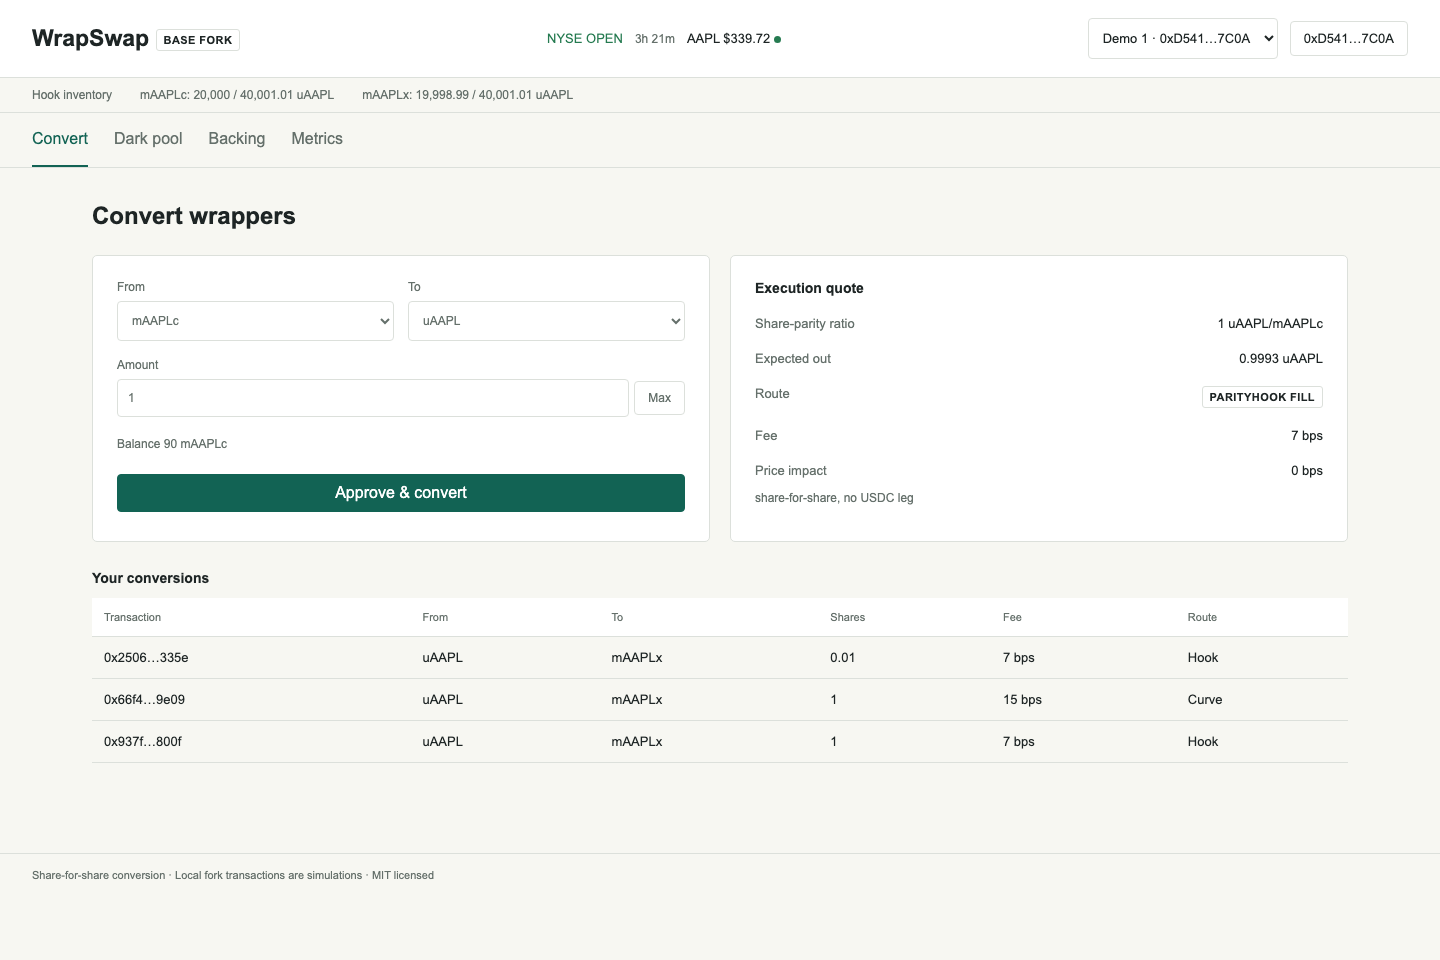
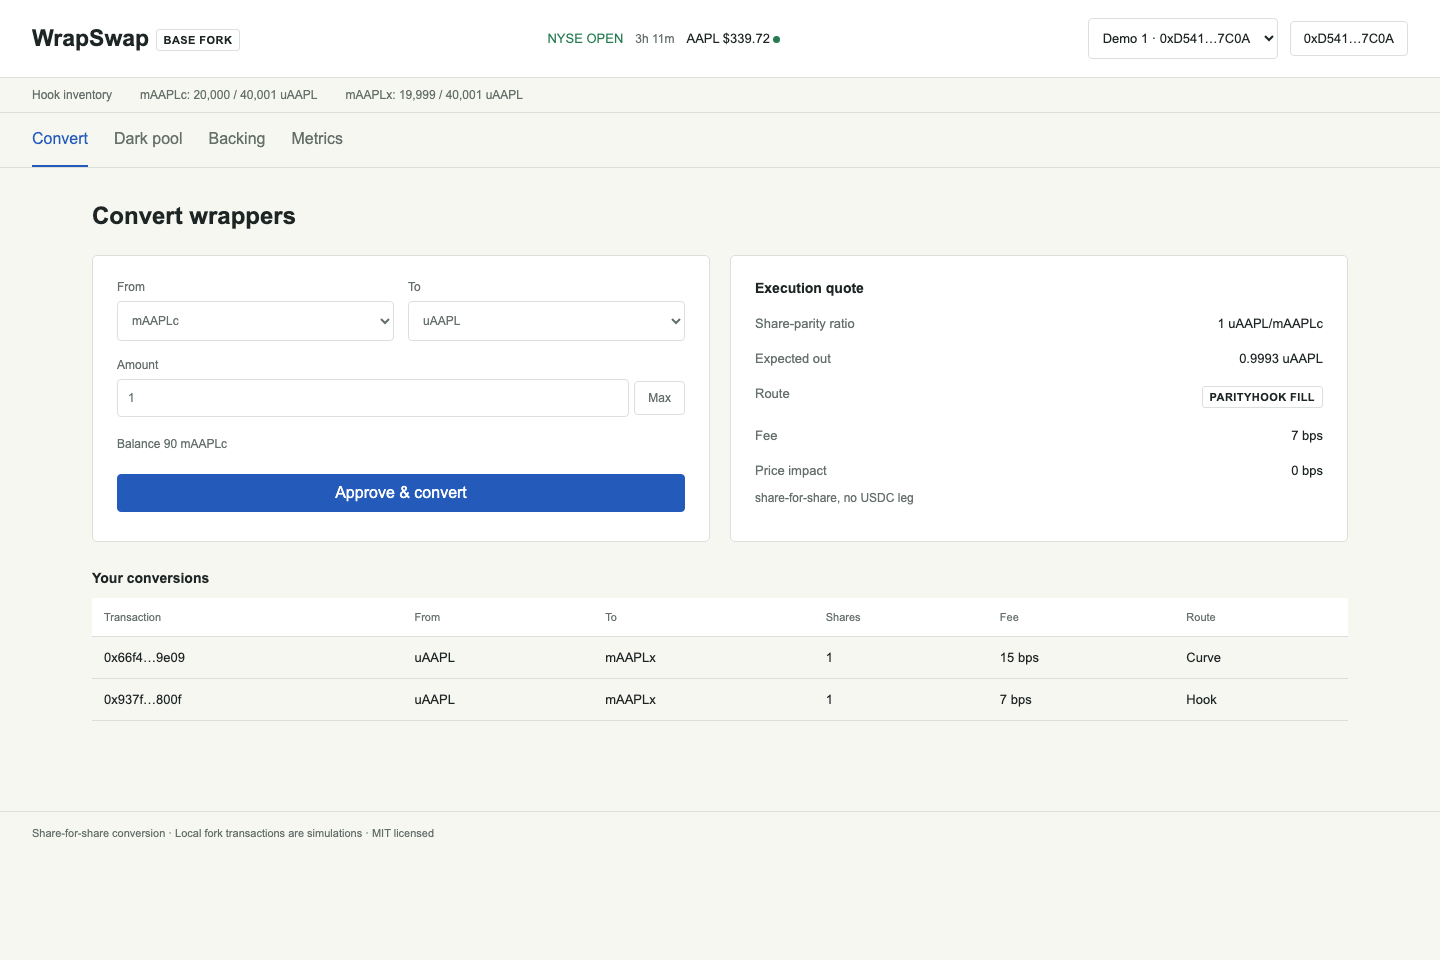
Live fork demo and adapter manifests work with 47 passing unit tests

diff --git a/scripts/update-testnet-readme.py b/scripts/update-testnet-readme.py
@@ -1,0 +1,16 @@
+#!/usr/bin/env python3
+"""Run only after every Base Sepolia deployment receipt and explorer verification succeeded."""
+import json,pathlib
+m=json.loads(pathlib.Path('deployments/base-sepolia.json').read_text())
+assert m['chainId']==84532
+rows=['<!-- testnet:start -->','### Verified Base Sepolia contracts','','| Contract | Address |','| --- | --- |']
+addresses={**m['contracts'],**{k:v['address'] for k,v in m['tokens'].items()}}
+for name,address in addresses.items():
+    assert address.startswith('0x') and len(address)==42
+    rows.append(f'| {name} | [{address}](https://sepolia.basescan.org/address/{address}#code) |')
+rows+=['<!-- testnet:end -->','']
+p=pathlib.Path('README.md');s=p.read_text();a='<!-- testnet:start -->';b='<!-- testnet:end -->'
+if a in s:s=s[:s.index(a)]+'\n'.join(rows)+s[s.index(b)+len(b):]
+else:s=s.replace('FUND ME:', '\n'.join(rows)+'\nFUND ME:',1)
+s=s.replace('Deployment pending deployer funding; no verified addresses claimed','Deployed and explorer-verified; see contracts below')
+p.write_text(s)

diff --git a/INTERFACES.md b/INTERFACES.md
@@ -56,3 +56,4 @@ Lit pool uses tickSpacing=1 and ±2% price boundaries rounded outward to ticks (
 Demo orchestration amendment: concurrently starts API/crank/web immediately after seed so the scripted phase transition is settled by the running crank; final URL prints after scripted assertions. This resolves the original sequence's requirement for a running crank before its later startup step.
 
 The complete generated callable surface (including inherited ERC20/Ownable functions, errors, events and all public getters) is checked in under `deployments/abis/`. `scripts/export-abis.sh` regenerates it from Solidity after build. Dark `ResidualSkipped(uint256 indexed batchId,address indexed trader,bytes reason)` explicitly reports an unfillable residual. Public local demo receipts are written to `deployments/demo-receipts.json` with chain/deployment block, batch id, crossing/routing event counts, and each action's transaction hash/block.
+Deployment `contracts` also includes adapter1 and adapter2, resolved from the registry. After successful testnet broadcast and verification, scripts/update-testnet-readme.py writes explorer-linked addresses into README; it is never invoked on the unfunded or unverified path.

diff --git a/PROGRESS.md b/PROGRESS.md
@@ -20,3 +20,4 @@
 - make fresh-clone-check GREEN at code commit 61f3c9a: fresh dependencies, new deployer, isolated database, full scripted flow, all five browser tests (44.3s).
 - Final main make test GREEN: 36 Solidity tests and 11 application/database/runtime tests; production web build green.
 - Final verification record distinguishes shipped fork app, unfunded Sepolia and deferred bridge.
+- Final live demo restored at localhost:5173; adapter manifest export and verified-testnet README publishing added; 36 Solidity plus 11 app tests remain green.

diff --git a/DECISIONS.md b/DECISIONS.md
@@ -43,3 +43,4 @@
 - Express hook fee PnL in share units: raw fees from tokens with different decimals are not directly additive.
 - Use the existing Uniswap deployment JSON feed as evidence and suggest enriched records: feedback must recognize already-shipped developer tooling.
 - Use a blue action accent in both themes: reserve red and green for state indicators as requested.
+- Publish Sepolia README addresses only after receipt and explorer verification succeeds: predicted deployment addresses must not look verified.
